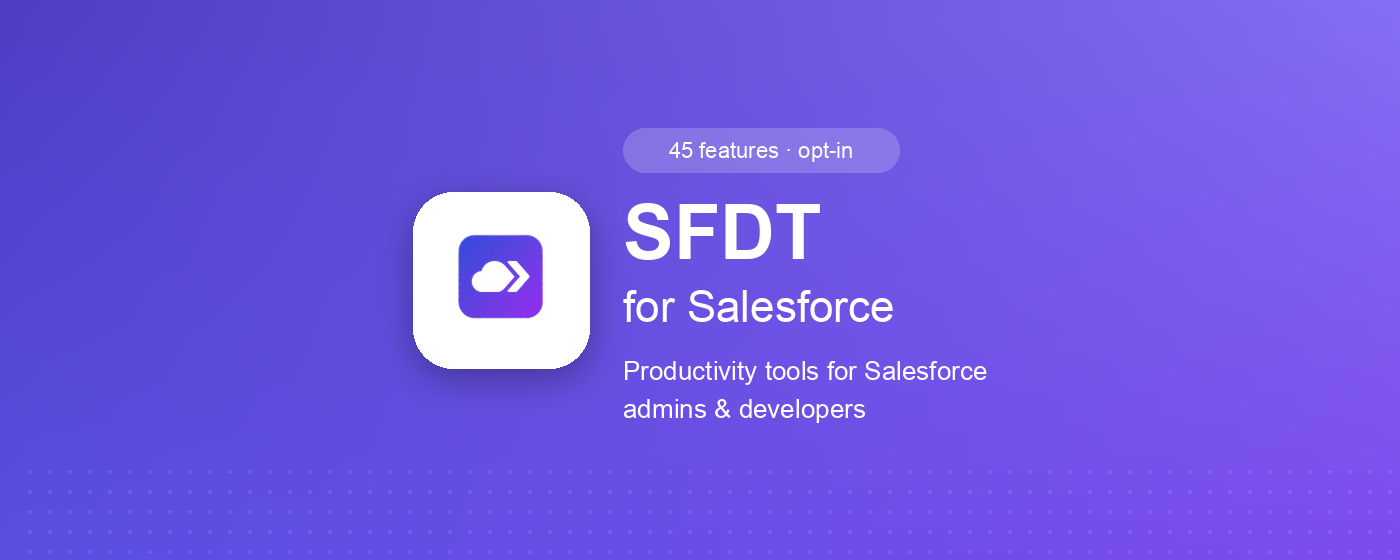
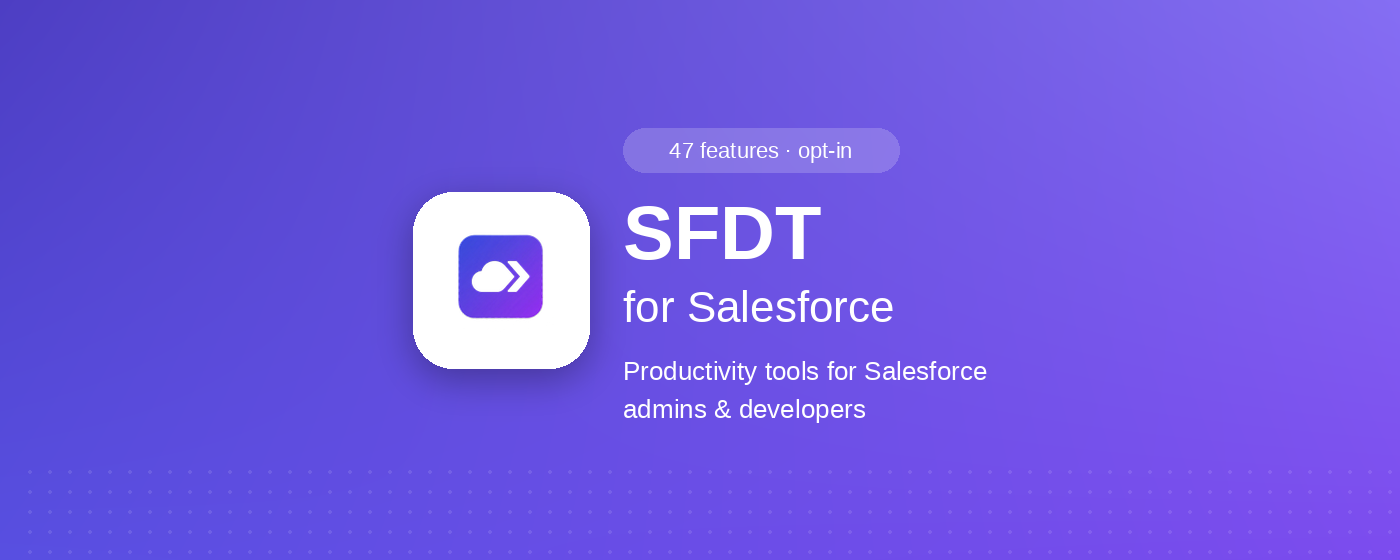
docs(extension): sync CWS listing.md to the 0.14.0 catalog
The paste copy still said v0.12.0 / 44 features and "adds 45". The catalog
in generated/chrome-features.json is 47, and three of those ship off
(record-delete, soql-bulk-delete, soql-nl-generate). This rewrite:

- Reads the count from the catalog, never a hand-count
- Adds bullets for the three off-by-default features
- Updates Inspect Record to cover typed edit and clone
- Drops the stale "29-feature copy" / "SF Helper" store notes — live CWS
  is 0.13.0 titled SFDT for Salesforce
- Pins the count and every catalog name to a listing bullet in
  test/listing-catalog.test.ts
- Regenerates the promo tiles so they no longer bake "44 features" into
  pixels, and adds Liberation/DejaVu fallbacks so the generator runs on
  Linux

Screenshots are unchanged. Recapture is R-6; photos were accepted as-is.

diff --git a/extension/test/listing-catalog.test.ts b/extension/test/listing-catalog.test.ts
@@ -1,0 +1,113 @@
+// Drift guard for extension/listing.md. The CWS paste copy is a dashboard field,
+// not a zip field, so it silently lags the catalog. This test reads
+// generated/chrome-features.json (never a hand-count) and asserts the listing
+// names every shipped feature, states the catalog count, and calls out the
+// three that ship off.
+//
+// CWS-facing bullet titles that predate the catalog name live in
+// LISTING_TITLE_ALIASES. Adding an alias is a product decision, same class as
+// SHIPS_OFF_BY_DESIGN in feature-manifests.test.ts: a new catalog feature
+// without a listing bullet must fail, not grow the alias map.
+
+import { describe, it, expect } from 'vitest';
+import { readFileSync } from 'node:fs';
+import { fileURLToPath } from 'node:url';
+import path from 'node:path';
+
+const ROOT = path.resolve(path.dirname(fileURLToPath(import.meta.url)), '../..');
+const CATALOG_PATH = path.join(ROOT, 'generated', 'chrome-features.json');
+const LISTING_PATH = path.join(ROOT, 'extension', 'listing.md');
+const PKG_PATH = path.join(ROOT, 'extension', 'package.json');
+
+type CatalogFeature = {
+  id: string;
+  name: string;
+  enabledByDefault: boolean;
+};
+
+const LISTING_TITLE_ALIASES: Readonly<Record<string, string>> = {
+  'ai-assistant': 'AI Assistant',
+  'export-for-prompt': 'Export Schema for Prompt',
+  'flow-deploy': 'Flow Deploy',
+  'flow-health-check': 'Flow Health Check',
+  'missing-descriptions': 'Missing Description Flags',
+};
+
+const SHIPS_OFF_IDS = ['record-delete', 'soql-bulk-delete', 'soql-nl-generate'] as const;
+
+function listingTitle(feature: CatalogFeature): string {
+  return LISTING_TITLE_ALIASES[feature.id] ?? feature.name;
+}
+
+function parseBullets(listing: string): string[] {
+  const m = listing.match(/Features include:\n((?:- .+\n)+)/);
+  if (!m) throw new Error('listing.md has no "Features include:" bullet list');
+  return m[1]
+    .trim()
+    .split('\n')
+    .map((line) => line.replace(/^- /, ''));
+}
+
+function bulletTitle(bullet: string): string {
+  const cut = bullet.indexOf(' — ');
+  return (cut === -1 ? bullet : bullet.slice(0, cut)).trim();
+}
+
+const catalog = JSON.parse(readFileSync(CATALOG_PATH, 'utf8')) as {
+  features: CatalogFeature[];
+};
+const features = catalog.features;
+const listing = readFileSync(LISTING_PATH, 'utf8');
+const pkg = JSON.parse(readFileSync(PKG_PATH, 'utf8')) as { version: string };
+const bullets = parseBullets(listing);
+const titles = bullets.map(bulletTitle);
+
+describe('listing.md tracks generated/chrome-features.json', () => {
+  it('does not hand-count — the catalog is the count', () => {
+    expect(features.length).toBeGreaterThan(0);
+    expect(listing).toMatch(
+      new RegExp(`Updated for \\*\\*v${pkg.version.replace(/\./g, '\\.')}\\*\\* \\(${features.length} features`),
+    );
+    expect(listing).toContain(`adds ${features.length} productivity features`);
+  });
+
+  it('has one bullet per catalog feature, and every catalog name has a listing bullet', () => {
+    expect(bullets.length).toBe(features.length);
+    const missing = features
+      .map((f) => listingTitle(f))
+      .filter((title) => !titles.includes(title));
+    expect(missing).toEqual([]);
+  });
+
+  it('does not list a title that is not in the catalog (or the alias map)', () => {
+    const expected = new Set(features.map(listingTitle));
+    const extra = titles.filter((t) => !expected.has(t));
+    expect(extra).toEqual([]);
+  });
+
+  it('keeps the alias map a reviewed subset of catalog ids', () => {
+    const ids = new Set(features.map((f) => f.id));
+    const unknown = Object.keys(LISTING_TITLE_ALIASES).filter((id) => !ids.has(id));
+    expect(unknown).toEqual([]);
+    for (const [id, title] of Object.entries(LISTING_TITLE_ALIASES)) {
+      const catalogName = features.find((f) => f.id === id)?.name;
+      expect(title, id).not.toBe(catalogName);
+    }
+  });
+
+  it('names the three features that ship off, and only those', () => {
+    const off = features.filter((f) => f.enabledByDefault === false).map((f) => f.id);
+    expect(off.sort()).toEqual([...SHIPS_OFF_IDS].sort());
+    for (const id of SHIPS_OFF_IDS) {
+      const feature = features.find((f) => f.id === id);
+      if (!feature) throw new Error(`catalog is missing ${id}`);
+      const title = listingTitle(feature);
+      const bullet = bullets.find((b) => bulletTitle(b) === title);
+      if (!bullet) throw new Error(`listing.md is missing a bullet for ${id} (${title})`);
+      expect(bullet.toLowerCase()).toMatch(/ships off|opt-in/);
+    }
+    expect(listing).toMatch(
+      new RegExp(`three (of those ${features.length} )?ship \\*\\*off by default\\*\\*`, 'i'),
+    );
+  });
+});

diff --git a/extension/test/options-layout.test.ts b/extension/test/options-layout.test.ts
@@ -17,7 +17,7 @@ const SRC = readFileSync(path.resolve(HERE, '..', 'entrypoints', 'options', 'mai
 describe('options page — layout', () => {
   it('lays out in two columns via the shared bento grid', () => {
     // Nineteen cards in one 720px stack put theme and telemetry below a
-    // 44-row feature list, where nobody found them.
+    // 47-row feature list, where nobody found them.
     expect(SRC).toContain("el('div', { class: 'sfdt-bento' })");
     expect(SRC).toMatch(/const mainCol = el\('div', \{ class: 'sfdt-bento-col' \}\)/);
     expect(SRC).toMatch(/const sideCol = el\('div', \{ class: 'sfdt-bento-col' \}\)/);
@@ -59,7 +59,7 @@ describe('options page — layout', () => {
 
 describe('options page — feature list', () => {
   it('offers a filter over the feature rows', () => {
-    // 44 rows is a list you hunt through, not one you scan.
+    // 47 rows is a list you hunt through, not one you scan.
     expect(SRC).toContain("placeholder: 'Filter features…'");
     expect(SRC).toContain('applyFeatureFilter');
     // Matches contexts too, so "record_page" finds everything that runs on one.

diff --git a/extension/entrypoints/options/main.ts b/extension/entrypoints/options/main.ts
@@ -286,7 +286,7 @@ async function render(): Promise<void> {
   wrap.appendChild(subtitle);
 
   // Two columns. The split is by WEIGHT, not by topic: the left column holds
-  // the things you scroll and read (bridge setup, 44 feature toggles, every
+  // the things you scroll and read (bridge setup, 47 feature toggles, every
   // per-feature schema), the right holds the short preference cards. A single
   // 720px column put nineteen cards in one stack, so the small ones — theme,
   // telemetry — sat below a very long list and were effectively unfindable.

diff --git a/extension/store-assets/make-promo-tile.py b/extension/store-assets/make-promo-tile.py
@@ -84,11 +84,15 @@ FONTS_BOLD = [
     "/System/Library/Fonts/Supplemental/Arial Bold.ttf",
     "/System/Library/Fonts/Supplemental/Helvetica.ttc",
     "/Library/Fonts/Arial Unicode.ttf",
+    "/usr/share/fonts/truetype/liberation/LiberationSans-Bold.ttf",
+    "/usr/share/fonts/truetype/dejavu/DejaVuSans-Bold.ttf",
 ]
 FONTS_REG = [
     "/System/Library/Fonts/Supplemental/Arial.ttf",
     "/System/Library/Fonts/Helvetica.ttc",
     "/Library/Fonts/Arial Unicode.ttf",
+    "/usr/share/fonts/truetype/liberation/LiberationSans-Regular.ttf",
+    "/usr/share/fonts/truetype/dejavu/DejaVuSans.ttf",
 ]
 
 

diff --git a/extension/listing.md b/extension/listing.md
@@ -1,46 +1,46 @@
 # Chrome Web Store Listing
 
-> **Store-sync status:** Updated for **v0.12.0** (44 features — the count is read from
+> **Store-sync status:** Updated for **v0.14.0** (47 features — the count is read from
 > `generated/chrome-features.json`, never counted by hand; re-derive it each release
-> instead of incrementing it). Since the last manual store upload (0.3.x era) this adds
-> Apex tooling (Test Runner, Code Coverage, Trace Flags), a **Schema Browser**, **Field
-> Impact Analysis**, **Dependency Explorer**, **API Version Audit**, in-browser **Flow
-> Scanner**, an **Org Release** badge, a **Command Palette**, a
-> docked **side panel**, **SOSL** mode in the SOQL Runner, and a right-click record
-> inspector, plus the bridge tools **Org Compare / Drift Check / Metadata Scan**. 0.12.0
-> adds the **Workspace Overview** home (org-health tiles, quick actions, recent activity),
-> a line-numbered **syntax-highlighting editor** for SOQL and Apex, and a rebuilt design
-> system across every surface. As of the last manual upload the *live* CWS listing still
-> reflects the older 29-feature copy — this file is ahead of the store. Paste the sections
-> below into the CWS dashboard during the v0.12.0 upload, then this file and the store are
+> instead of incrementing it). Three of those 47 ship **off by default**: Delete records
+> (`record-delete`), Bulk delete from SOQL results (`soql-bulk-delete`), and Generate
+> SOQL from a description (`soql-nl-generate`). Since the last listing rewrite this
+> adds Inspect Record typed edit and clone, plus the off-by-default record delete,
+> on top of the surfaces already in the copy: Apex tooling (Test Runner, Code Coverage,
+> Trace Flags), a **Schema Browser**, **Field Impact Analysis**, **Dependency Explorer**,
+> **API Version Audit**, in-browser **Flow Scanner**, an **Org Release** badge, a
+> **Command Palette**, a docked **side panel**, **SOSL** mode in the SOQL Runner, a
+> right-click record inspector, the bridge tools **Org Compare / Drift Check /
+> Metadata Scan**, the **Workspace Overview** home, a line-numbered
+> **syntax-highlighting editor** for SOQL and Apex, **Generate query** (NL→SOQL, off
+> by default), and **Bulk delete from SOQL results** (off by default).
+>
+> As of this writing the *live* CWS listing is **0.13.0**, titled **SFDT for Salesforce**,
+> with 45-feature copy. This file is ahead at 0.14.0 / 47. Paste the sections below
+> into the CWS dashboard during the v0.14.0 upload, then this file and the store are
 > back in sync.
 >
-> **The item name changed in 0.11.0.** The packaged manifest now reads "SFDT for
-> Salesforce"; it was "SFDT SF Helper". The store's *item title* is a dashboard field
-> rather than a manifest field, so it has to be renamed by hand in CWS during the same
-> upload or the store keeps showing the old name.
+> **The item name is already live as "SFDT for Salesforce".** It was renamed from
+> "SFDT SF Helper" in a dashboard edit and is what the store shows on 0.13.0. The
+> store's *item title* is still a dashboard field rather than a manifest field —
+> renaming it again has to be typed by hand or the store keeps the old name.
 >
 > **Permission justifications must be pasted into the item's Privacy practices
 > tab** (not just the description) — the store rejects auto-publish until every
 > permission below has a justification saved. `contextMenus` + `sidePanel` were
 > the two that blocked the v0.8.0 auto-publish. The permission set is **unchanged in
-> 0.11.0** — `storage`, `clipboardWrite`, `cookies`, `contextMenus`, `sidePanel` plus the
-> ten host permissions, verified against the built `.output/chrome-mv3/manifest.json`.
+> 0.14.0** — `storage`, `clipboardWrite`, `cookies`, `contextMenus`, `sidePanel` plus the
+> ten host permissions, verified against `wxt.config.ts`.
 >
 > Screenshots, the store icon, and the small promo tile live alongside this file in
 > `extension/store-assets/` (`store-icon-128.png`, `promo-small-440x280.png`, and the
-> `final_*` shots). **The screenshot set is 0.3.x-era and has not been recaptured since.**
-> `final_14` and `final_15` were deleted pending recapture (one showed a live API-version
-> error, the other leaked a real org id and email), and nothing that shipped after 0.3.x
-> has a shot at all — no Schema Browser, Command Palette, Trace Flags, Field Impact
-> Analysis, side panel, or SOSL mode. `final_06`, the hero shot, shows a Workspace nav
-> from when there were 13 tools. Recapturing is a human task; see this folder's README for
-> the featured-5 rationale and which shots to avoid.
+> featured-5 `final_*` shots). Recapture is a separate human task, not this listing
+> sync. CWS keeps the existing screenshots if none are uploaded.
 
 ## Dashboard field map
 
 Everything below is ready to paste. This table says **which dashboard tab each field lives in**,
-so the whole listing can be staged before the `ext-v0.11.0` zip is uploaded. Lengths were
+so the whole listing can be staged before the `ext-v0.14.0` zip is uploaded. Lengths were
 measured from this file's own sections — the headroom column is what's left before the store
 truncates or rejects.
 
@@ -49,7 +49,7 @@ truncates or rejects.
 | Item name | Store listing | 19 | 75 | **dashboard only — not the manifest** |
 | Short description | Store listing | 119 | 132 | matches manifest `description` byte-for-byte |
 | Category / Language | Store listing | — | — | dashboard only |
-| Detailed description | Store listing | 5,987 | 16,000 | this file |
+| Detailed description | Store listing | 6,671 | 16,000 | this file |
 | Screenshots (5) | Store listing | — | 1280×800 | `store-assets/` |
 | Single purpose | Privacy practices | 287 | 1,000 | this file |
 | Permission justifications (8) | Privacy practices | ≤403 each | 1,000 each | this file |
@@ -59,8 +59,8 @@ truncates or rejects.
 **Four fields never come from the zip** and are the ones that silently keep showing stale values:
 the item name, the category, the data-usage disclosures, and the distribution settings.
 
-The **item name is the live one this release** — the packaged manifest reads "SFDT for
-Salesforce" but the store will keep displaying "SFDT SF Helper" until it is retyped here by hand.
+The **item name is already live** — CWS currently displays "SFDT for Salesforce". It remains a
+dashboard-only field: a future rename still has to be retyped by hand.
 
 ## Item name
 SFDT for Salesforce
@@ -75,7 +75,7 @@ Developer Tools (alt: Workflow & Planning)
 English (United States)
 
 ## Detailed description
-SFDT for Salesforce adds 45 productivity features for Salesforce admins and developers across Flow Builder, Setup, Object Manager, and record pages — now including a standalone Workspace tab that runs SOQL, Apex, and other tools in their own browser tab so they never disturb the Salesforce page you're on. Features span flow analysis, schema and dependency exploration, data tooling, SOQL/REST/SOAP exploration, anonymous Apex, Apex test running and coverage, debug-log/trace-flag and event monitoring, org health diagnostics, and optional AI assistance. Every feature is opt-in via the options page, and any feature can be remotely disabled without a Web Store re-review.
+SFDT for Salesforce adds 47 productivity features for Salesforce admins and developers across Flow Builder, Setup, Object Manager, and record pages — now including a standalone Workspace tab that runs SOQL, Apex, and other tools in their own browser tab so they never disturb the Salesforce page you're on. Features span flow analysis, schema and dependency exploration, data tooling, SOQL/REST/SOAP exploration, anonymous Apex, Apex test running and coverage, debug-log/trace-flag and event monitoring, org health diagnostics, and optional AI assistance. Every feature can be switched off via the options page; three ship off by default (Delete records, Bulk delete from SOQL results, Generate SOQL from a description); and any feature can be remotely disabled without a Web Store re-review.
 
 Features include:
 - Setup Tabs — adds an Automation Home tab plus reorderable, groupable tabs to the Setup tab bar
@@ -91,11 +91,14 @@ Features include:
 - Comparison Exporter — export org-vs-org compare reports from the canvas
 - AI Assistant — surface answers about the current Flow via Claude, Gemini, or OpenAI through the bridge
 - SOQL Query Runner — run SOQL (REST or Tooling) or SOSL text searches with field/object autocomplete, query history and bookmarks, CSV export, query plans, and a LangGraph node generator; SOSL results are grouped per object with per-object copy and export
+- Bulk delete from SOQL results — delete rows from a result set after a backup CSV download and a typed confirmation; ships off
+- Generate SOQL from a description (AI) — describe a query in plain English and the SOQL lands in the editor, never in the org; ships off and needs the local CLI bridge
 - Org Limits — current org limit utilization at a glance
 - REST API Explorer — explore the REST API of the current org
 - Subflow Caller Graph — visualize which Flows call the current Flow
 - Trigger Conflicts — surface conflicting Flow Triggers on the same object
-- Inspect Record — view a record's complete field set (including empty and system fields) via the REST API
+- Inspect Record — view a record's complete field set (including empty and system fields) via the REST API, edit fields with the control that field deserves (picklists, dates, numbers), and clone into a form you review before anything is created
+- Delete records (opt-in) — delete the inspected record after typing the object's API name; ships off, with its own feature id so it can be killed without taking the inspector with it
 - Data Import Wizard — guided CSV-based data import into the org
 - Bulk Field Creator — create multiple custom fields at once
 - Metadata Retrieve & Deploy — retrieve and deploy metadata directly from the browser
@@ -218,19 +221,11 @@ All three are truthful for this item and must be ticked or the submission will n
 
 ## Screenshots — upload plan
 
-**Specs:** 1280×800 (all 15 present frames already conform), PNG, max 5 shown as the featured
-set, and **slot 1 is the hero**. The featured-5 order and the rationale for it live in
-`store-assets/README.md` — that file is the source of truth, not duplicated here.
+**Specs:** 1280×800, PNG, max 5 shown as the featured set, and **slot 1 is the hero**. The featured-5 order and the rationale for it live in `store-assets/README.md` — that file is the source of truth, not duplicated here.
 
-**These are 0.3.x-era and this is the release's weakest point.** Nothing that shipped after
-0.3.x has a frame at all — no Schema Browser, Command Palette, Trace Flags, Field Impact
-Analysis, side panel, or SOSL mode — and `final_06`, the hero, shows a Workspace nav from when
-there were 13 tools. `final_14` and `final_15` are deleted pending recapture (one captured the
-now-fixed SOAP API-version error live, the other leaked a real org id, company name and email).
+The featured-5 files in `store-assets/` (`final_01-workspace.png`, `final_02-field-impact.png`, `final_03-schema-browser.png`, `final_04-SOQL-Runner.png`, `final_05-cmd-pallet.png`) are the current set. Recapturing is a separate human task against a scratch org, never a production one.
 
-The listing can be fully pre-positioned without touching these — the store keeps the existing
-screenshots if none are uploaded. Recapturing is a separate human task against a scratch org,
-never a production one, given what `final_15` leaked.
+The listing can be fully pre-positioned without touching these — the store keeps the existing screenshots if none are uploaded.
 
 ## Distribution
 - Visibility: Public

diff --git a/extension/CHANGELOG.md b/extension/CHANGELOG.md
@@ -4,6 +4,16 @@ All notable changes to `@sfdt/extension` are documented here. Format follows [Ke
 
 ## [Unreleased]
 
+### Changed
+
+- **Chrome Web Store listing copy is current for 0.14.0.** `extension/listing.md`
+  now reads the catalog count (47) from `generated/chrome-features.json` rather
+  than a hand-count, names the three features that ship off (`record-delete`,
+  `soql-bulk-delete`, `soql-nl-generate`), and covers Inspect Record typed edit
+  and clone plus the off-by-default record delete. A drift test pins the count
+  and every catalog name to a listing bullet. Promo tiles were regenerated from
+  the same catalog so they no longer bake "44 features" into pixels.
+
 ## [0.14.0] - 2026-08-24
 
 ### Added
